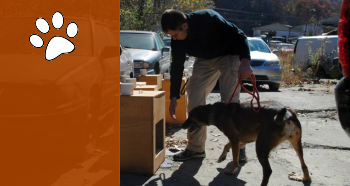
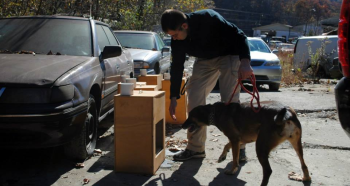
clean up of hover panels

diff --git a/partials/lower-main.html b/partials/lower-main.html
@@ -10,43 +10,69 @@
 				</div>
 			</div> 
 			
-			<div class="col-md-4" >				 
-				<div class="view view-first">
-					<div class="training">TRAINING <br/>PROGRAMS</div>
-					<img class="round-corner" src="images/training-programs.png" />						
-					<div class="mask">
-						<h2>Training Programs</h2>
-						<p>A wonderful serenity has taken possession of my entire soul, like these sweet mornings of spring which I enjoy with my whole heart.</p>
-						<a href="#" class="info">Read More</a>
+			<div class="col-md-4" >	
+				<div class="row " style="background:none;">
+					<div class="hover-text" >	
+						TRAINING PROGRAMS
 					</div>
-				</div>  
-			 
-				<div class="view view-first">
-					<div class="initial-right" style="margin-top:55px;"> PET <br/>FIRST<br/>AID</div>
-					<img class="round-corner" src="images/pet-first-aid.png" />						
-					<div class="mask">
-						<h2>Pet First Aid</h2>
-						<p>A wonderful serenity has taken possession of my entire soul, like these sweet mornings of spring which I enjoy with my whole heart.</p>
-						<a href="#" class="info">Read More</a>
+				</div>
+				<div class="row " style="background:none;">
+					<div class="col-md-4" >	
+						<div class="view view-first"> 
+							<img class="round-corner" src="images/training-programs.png" />						
+							<div class="mask">
+								<h2>Training Programs</h2>
+								<p>A wonderful serenity has taken possession of my entire soul, like these sweet mornings of spring which I enjoy with my whole heart.</p>
+								<a href="#" class="info">Read More</a>
+							</div>
+						</div>  
 					</div>
-				</div>  
-				 
-				 <div class="view view-first">
-					<div class="initial-left">SEARCH </br>AND <br/>RESCUE</div>
-					<img class="round-corner" src="images/search-rescue.png" />					
-					<div class="mask">
+				</div>
+				
+				
+				<div class="row " style="background:none;">
+					<div class="hover-text" >	
+						PET FIRST AID
+					</div>
+				</div>
+				<div class="row " style="background:none;">
+					<div class="col-md-4" >	
+						<div class="view view-first"> 
+						<img class="round-corner" src="images/pet-first-aid.png" />						
+						<div class="mask">
+							<h2>Pet First Aid</h2>
+							<p>A wonderful serenity has taken possession of my entire soul, like these sweet mornings of spring which I enjoy with my whole heart.</p>
+							<a href="#" class="info">Read More</a>
+						</div>
+					</div>  
+					</div>
+				</div>
+				
+				
+				 <div class="row " style="background:none;">
+					<div class="hover-text" >	
+						SEARCH AND RESCUE
+					</div>
+				</div>
+				<div class="row " style="background:none;">
+					<div class="col-md-4" >	
+						<div class="view view-first"> 
+						<img class="round-corner" src="images/search-rescue.png" />						
+						<div class="mask">
 						<h2>Search and Rescue</h2>
 						<p>A wonderful serenity has taken possession of my entire soul, like these sweet mornings of spring which I enjoy with my whole heart.</p>
 						<a href="#" class="info">Read More</a>
 					</div>
-				</div>  
+					</div>  
+					</div>
+				</div>
+				
 					
 			</div> 
 			
 			<div class="col-md-4 push-4 " style="background:none;">		
-			 
-				<div class="view view-first">
-					<div class="police">POLICE <br/>DOGS</div>
+				 <div class="hover-text">POLICE DOGS </div>
+				<div class="view view-first"> 
 					<img class="round-corner" src="images/police-dogs.png" />
 					<div class="mask">
 						<h2>Police Dogs</h2>
@@ -54,9 +80,9 @@
 						<a href="#" class="info">Read More</a>
 					</div>
 				</div>  
-			 
-				<div class="view view-first">
-				<div class="initial-right">EXECUTIVE <br/>PROTECTION</div>
+				
+				<div class="hover-text-lower"> EXECUTIVE PROTECTION</div>
+				<div class="view view-first"> 
 					<img class="round-corner" src="images/executive-protection.png" />
 					<div class="mask">
 						<h2>Executive Protection</h2>
@@ -64,9 +90,9 @@
 						<a href="#" class="info">Read More</a>
 					</div>
 				</div>  
-			 
-				<div class="view view-first">
-					<div class="initial-left">DETECTION <br/>DOGS</div>
+				
+				<div class="hover-text-lower">DETECTION DOGS </div>
+				<div class="view view-first"> 
 					<img class="round-corner" src="images/detection-dogs.png" />
 					<div class="mask">
 						<h2>Detection Dogs</h2>

diff --git a/css/styles.css b/css/styles.css
@@ -66,6 +66,29 @@ body{
 .mainText{
 	background: #fff;
 }
+.hover-text{
+	border-radius: 3px 0px;
+	background:rgba(97,116,23,1);
+	margin-bottom:-10px; 
+	height:30px;
+	width:200px;
+	padding:10px;
+	margin-left:25px; 
+	color: white;
+	position:relative; 
+	z-index:9999999;
+}
+.hover-text-lower{
+background:red;
+	margin-top:5px;
+	margin-bottom:-44px; 
+	height:20px;
+	width:200px;
+	margin-left:20px; 
+	color: white;
+	position:relative; 
+	z-index:9999999;
+}
 .navbar-default .navbar-nav li:hover{
 	background: rgb(176,212,227);
 	background: -moz-linear-gradient(top,  rgba(176,212,227,1) 0%, rgba(184,168,79,1) 1%, rgba(168,151,58,1) 68%, rgba(168,151,58,1) 100%);

diff --git a/css/img-hover-effect.css b/css/img-hover-effect.css
@@ -5,7 +5,10 @@
     margin: 10px;
     float: left;
 	border-radius:0px 0px;
-    border:1px solid rgba(97,116,23,1);
+    border-top:2px solid rgba(97,116,23,1);
+	 border-left:2px solid rgba(97,116,23,1);
+	  border-right:2px solid rgba(97,116,23,1);
+	   border-bottom:2px solid rgba(97,116,23,1);
     overflow: hidden;
     position: relative;
     text-align: center;
@@ -219,9 +222,7 @@
 
 
 
-.view-first .training {  
-	position:absolute;
-	margin-top:9px;
+.view-first .training {   
 	margin-left:21px;
 	z-index:9999;
 	color:white; 
